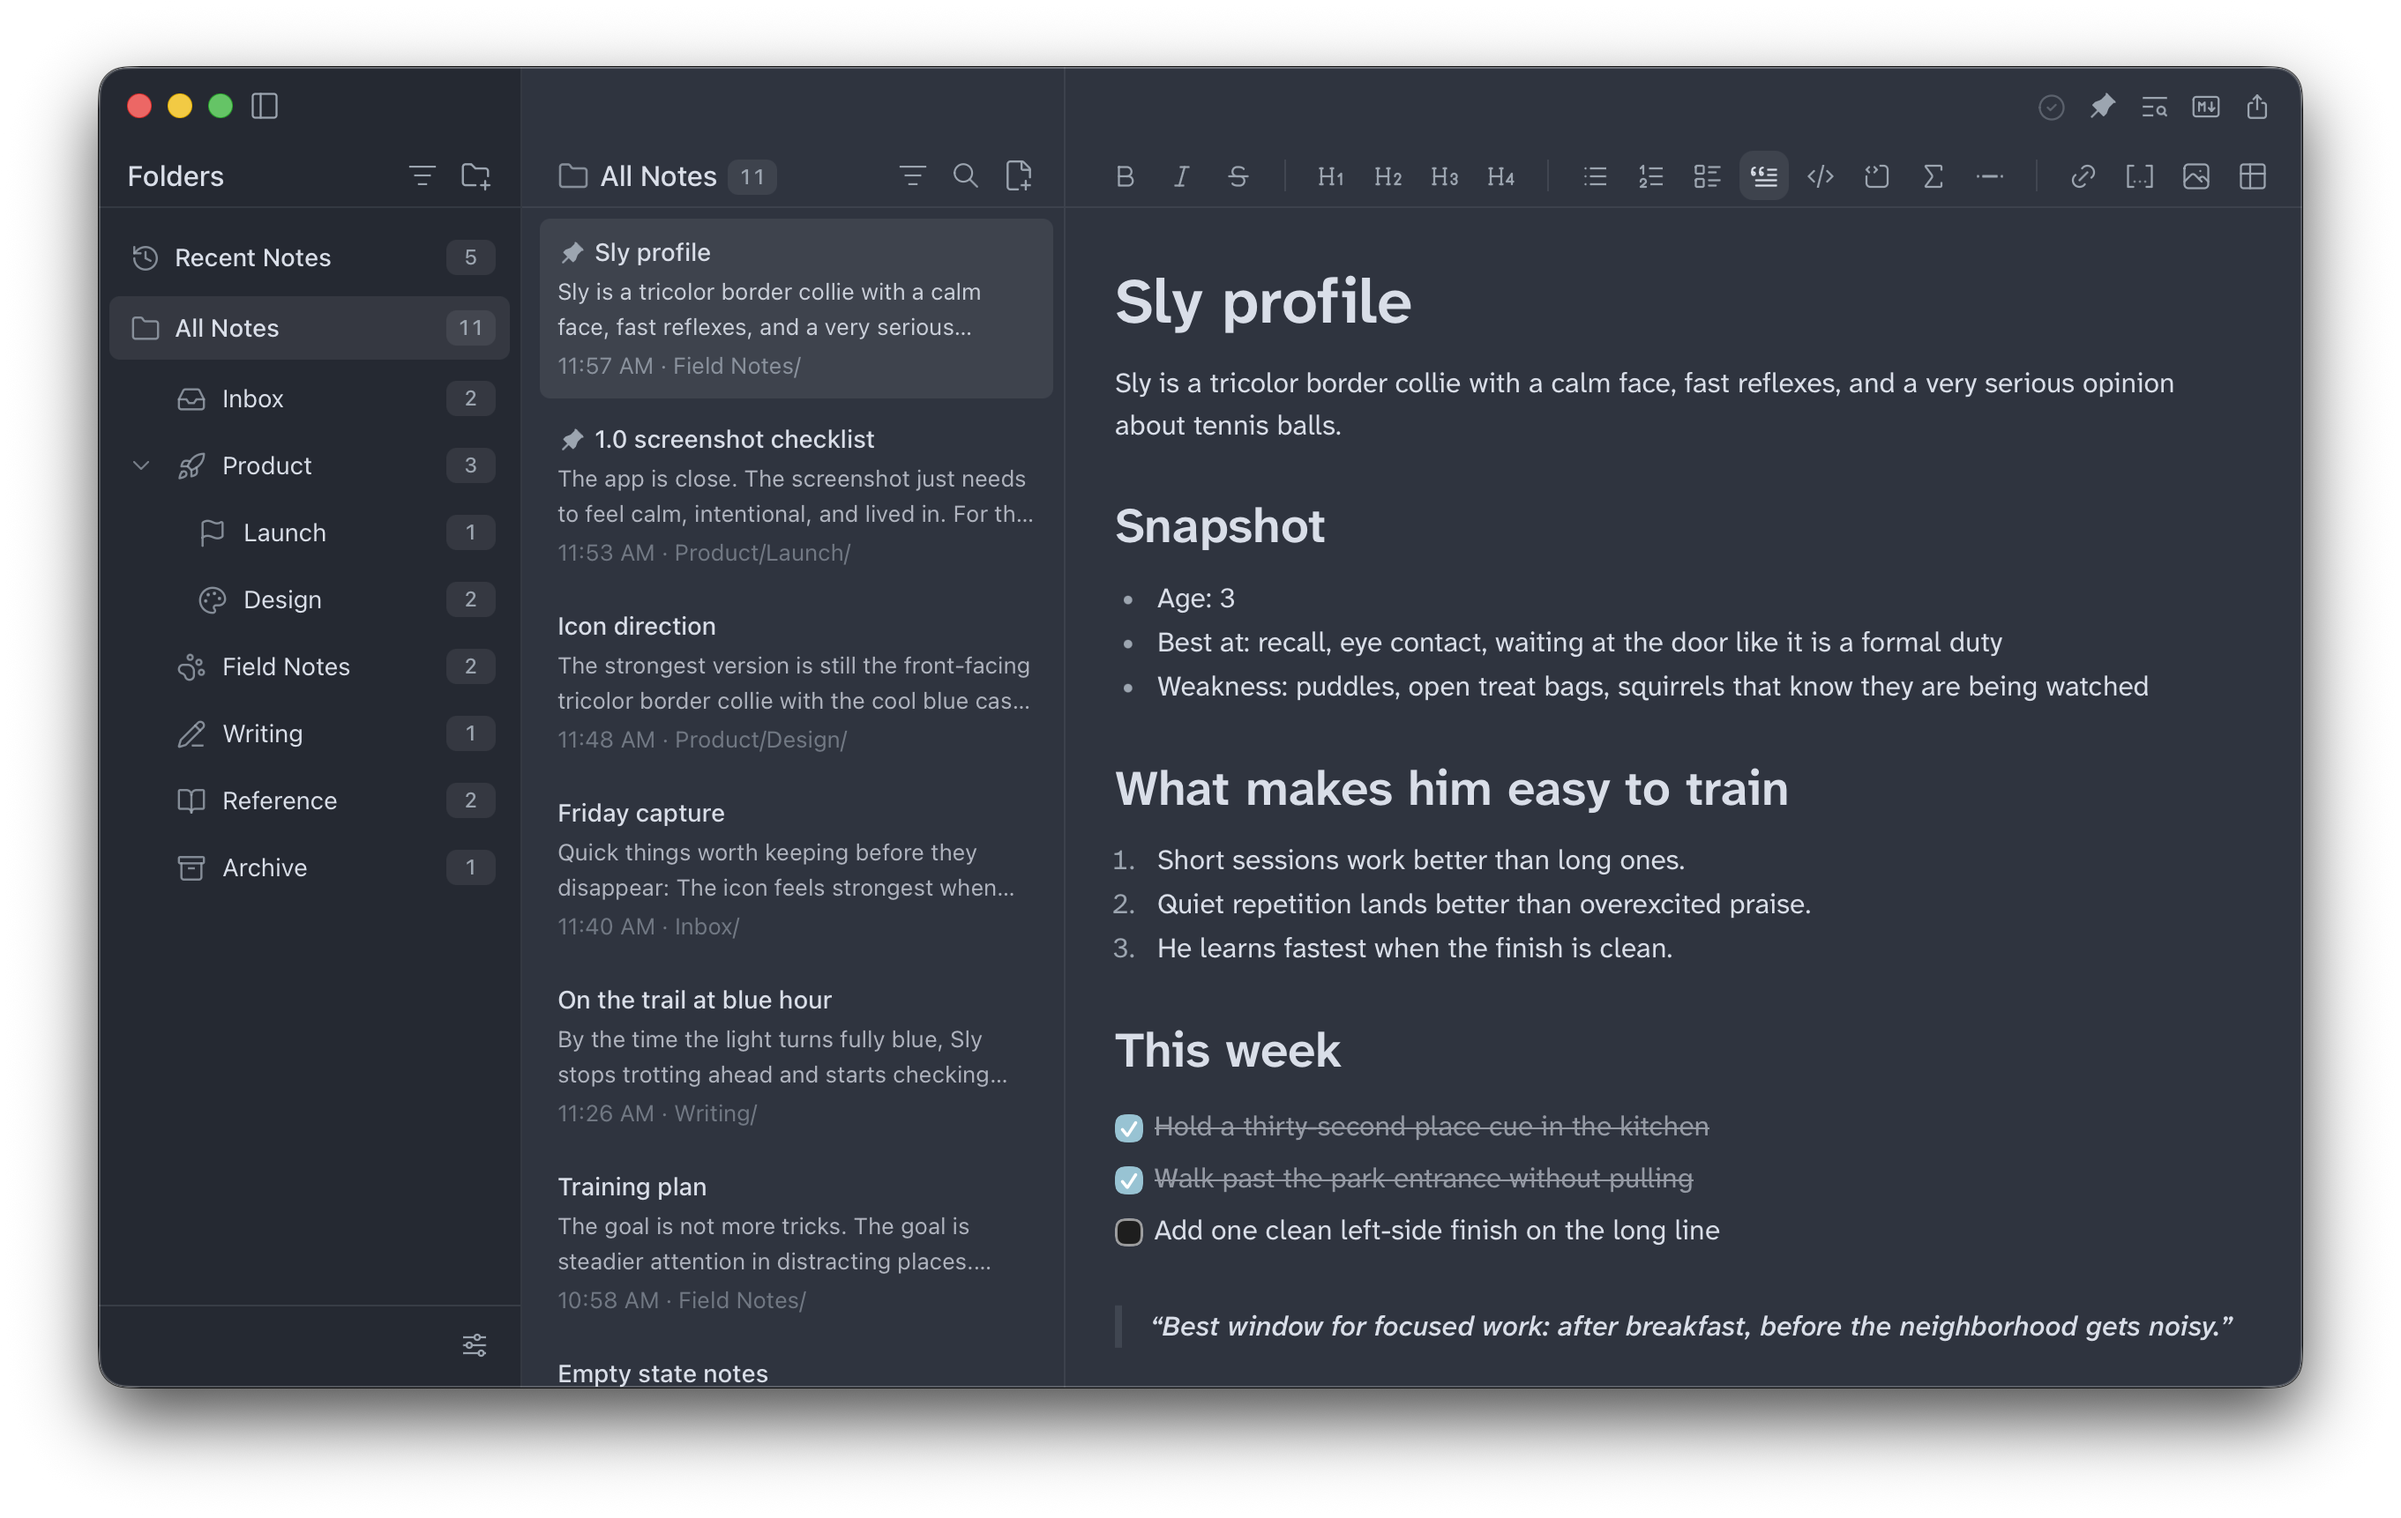
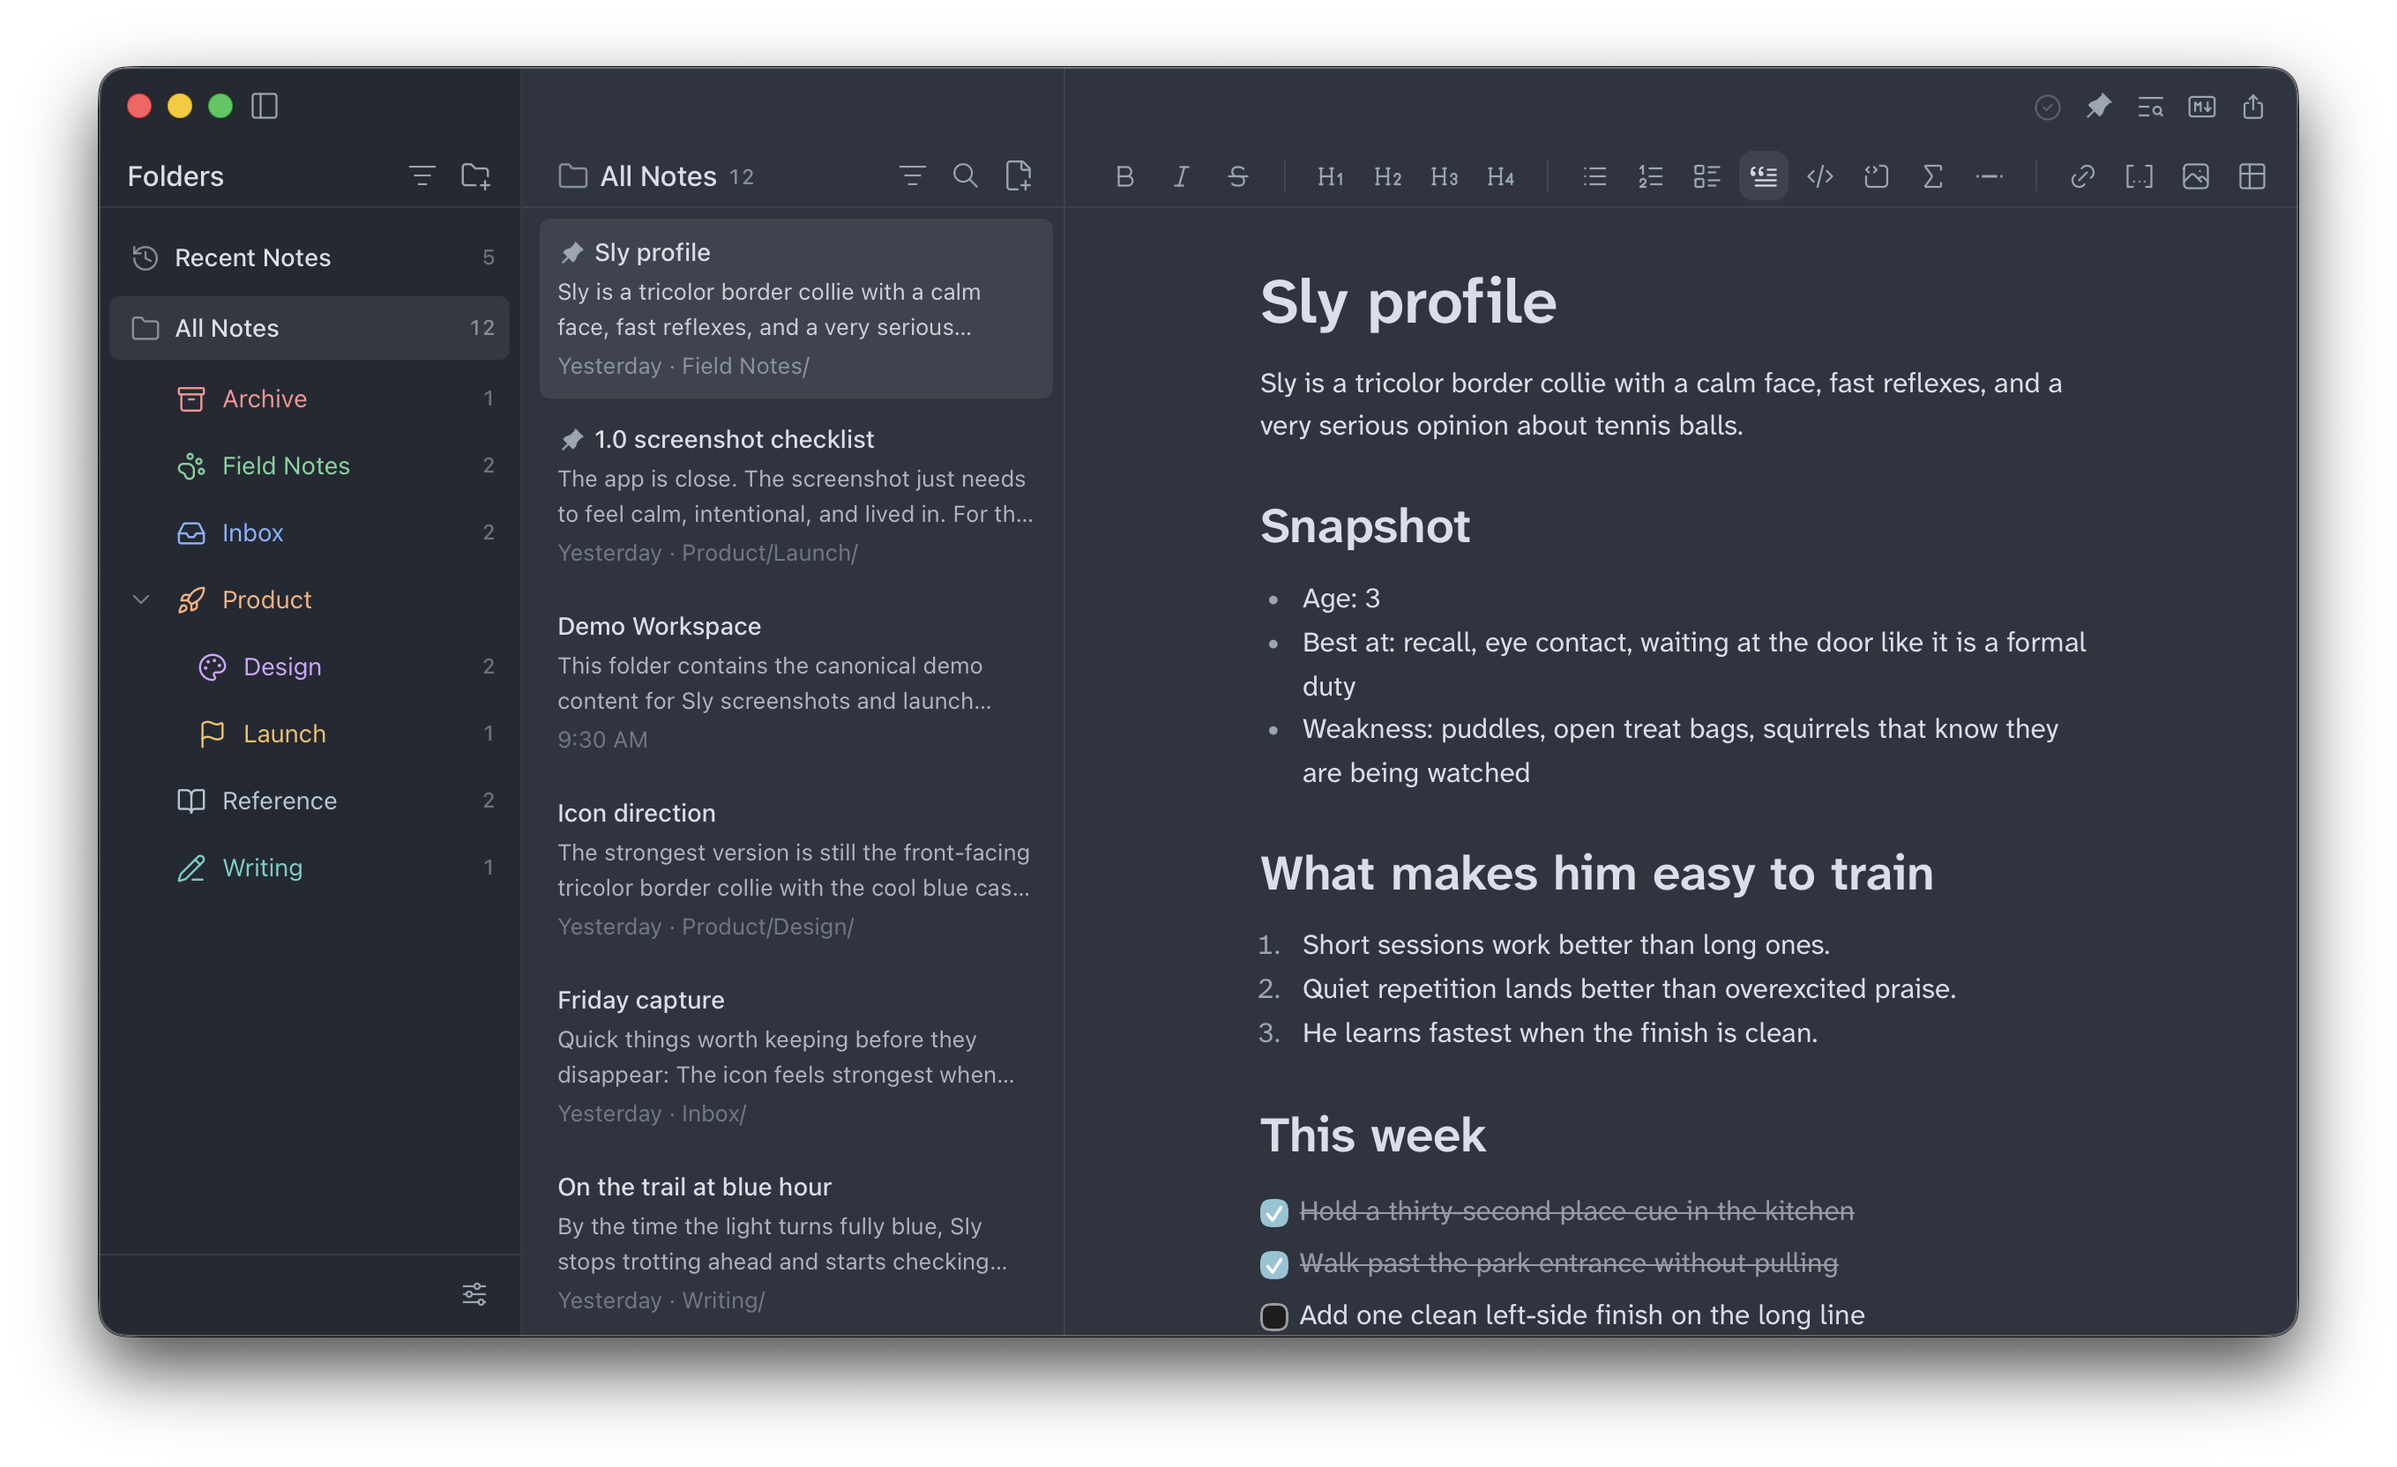
Remove legacy settings migrations and refresh demo workspace

diff --git a/src/components/notes/FolderTreeView.tsx b/src/components/notes/FolderTreeView.tsx
@@ -79,16 +79,6 @@ type FolderIconPickerTarget =
 
 const TREE_INDENT_WIDTH = 12;
 
-function loadLegacyCollapsedFolders(): Set<string> | null {
-  try {
-    const saved = localStorage.getItem("sly:collapsedFolders");
-    if (!saved) return null;
-    return new Set(JSON.parse(saved));
-  } catch {
-    return null;
-  }
-}
-
 function sanitizeFolderName(name: string): string {
   return name.replace(/[\/\\:*?"<>|]/g, "-").trim();
 }
@@ -674,11 +664,7 @@ export function FolderTreeView({
       return;
     }
 
-    const legacyCollapsedFolders = loadLegacyCollapsedFolders();
-    const initialCollapsedFolders = legacyCollapsedFolders
-      ? allFolderPaths.filter((path) => legacyCollapsedFolders.has(path))
-      : allFolderPaths;
-
+    const initialCollapsedFolders = allFolderPaths;
     setCollapsedFoldersState(new Set(initialCollapsedFolders));
     setHasInitializedCollapseState(true);
     void persistCollapsedFolders(initialCollapsedFolders);

diff --git a/src/lib/folderIcons.ts b/src/lib/folderIcons.ts
@@ -6,7 +6,6 @@ import type {
 
 export type FolderAppearanceInput =
   | FolderAppearance
-  | string
   | null
   | undefined;
 
@@ -114,18 +113,6 @@ function sanitizeFolderIconSpec(value: unknown): FolderIconSpec | null {
 export function sanitizeFolderAppearance(
   folderAppearance: FolderAppearanceInput,
 ): FolderAppearance | null {
-  if (typeof folderAppearance === "string") {
-    const iconName = folderAppearance.trim();
-    return iconName
-      ? {
-          icon: {
-            kind: "lucide",
-            name: iconName,
-          },
-        }
-      : null;
-  }
-
   if (!folderAppearance || typeof folderAppearance !== "object") {
     return null;
   }

diff --git a/src/lib/folderIcons.test.ts b/src/lib/folderIcons.test.ts
@@ -6,15 +6,19 @@ import {
 } from "./folderIcons";
 
 describe("folderIcons helpers", () => {
-  it("normalizes legacy lucide strings and emoji appearances", () => {
+  it("normalizes structured lucide and emoji appearances", () => {
     expect(
       sanitizeFolderAppearances({
-        docs: "folder-open-dot",
+        docs: {
+          icon: { kind: "lucide", name: "folder-open-dot" },
+        },
         journal: {
           icon: { kind: "emoji", shortcode: "book" },
           colorId: "blue",
         },
-        empty: "   ",
+        empty: {
+          icon: { kind: "lucide", name: "   " },
+        },
       }),
     ).toEqual({
       docs: {

diff --git a/src/components/notes/NoteList.tsx b/src/components/notes/NoteList.tsx
@@ -211,7 +211,6 @@ const NoteItemWithMenu = memo(function NoteItemWithMenu({
   onClearSelection,
   onFocusList,
   showFolderPrefix = true,
-  forceShowFolderPath = false,
   noteListDateMode,
   noteListPreviewLines,
   showNoteListFilename,

diff --git a/src-tauri/src/lib.rs b/src-tauri/src/lib.rs
@@ -346,13 +346,6 @@ pub struct FolderAppearance {
     pub color_id: Option<FolderColorId>,
 }
 
-#[derive(Debug, Clone, Deserialize)]
-#[serde(untagged)]
-enum FolderAppearanceSetting {
-    Legacy(String),
-    Appearance(FolderAppearance),
-}
-
 // App config (stored in app data directory)
 #[derive(Debug, Clone, Serialize, Deserialize, Default)]
 pub struct AppConfig {
@@ -378,11 +371,7 @@ pub struct Settings {
     pub default_note_name: Option<String>,
     #[serde(rename = "ollamaModel")]
     pub ollama_model: Option<String>,
-    #[serde(
-        rename = "folderIcons",
-        default,
-        deserialize_with = "deserialize_folder_icons"
-    )]
+    #[serde(rename = "folderIcons", default)]
     pub folder_icons: Option<HashMap<String, FolderAppearance>>,
     #[serde(rename = "collapsedFolders")]
     pub collapsed_folders: Option<Vec<String>>,
@@ -1304,20 +1293,6 @@ fn sanitize_folder_appearance(folder_appearance: FolderAppearance) -> Option<Fol
     Some(FolderAppearance { icon, color_id })
 }
 
-fn normalize_folder_appearance_setting(value: FolderAppearanceSetting) -> Option<FolderAppearance> {
-    match value {
-        FolderAppearanceSetting::Legacy(icon_name) => {
-            sanitize_folder_appearance(FolderAppearance {
-                icon: Some(FolderIconSpec::Lucide { name: icon_name }),
-                color_id: None,
-            })
-        }
-        FolderAppearanceSetting::Appearance(folder_appearance) => {
-            sanitize_folder_appearance(folder_appearance)
-        }
-    }
-}
-
 fn sanitize_folder_icons_map(
     folder_icons: HashMap<String, FolderAppearance>,
 ) -> HashMap<String, FolderAppearance> {
@@ -1333,32 +1308,6 @@ fn sanitize_folder_icons_map(
                 .map(|normalized_appearance| (normalized_path, normalized_appearance))
         })
         .collect()
-}
-
-fn deserialize_folder_icons<'de, D>(
-    deserializer: D,
-) -> Result<Option<HashMap<String, FolderAppearance>>, D::Error>
-where
-    D: Deserializer<'de>,
-{
-    let raw = Option::<HashMap<String, FolderAppearanceSetting>>::deserialize(deserializer)?;
-
-    Ok(raw.and_then(|folder_icons| {
-        let normalized: HashMap<String, FolderAppearance> = folder_icons
-            .into_iter()
-            .filter_map(|(path, value)| {
-                let normalized_path = path.trim().to_string();
-                if normalized_path.is_empty() {
-                    return None;
-                }
-
-                normalize_folder_appearance_setting(value)
-                    .map(|folder_appearance| (normalized_path, folder_appearance))
-            })
-            .collect();
-
-        (!normalized.is_empty()).then_some(normalized)
-    }))
 }
 
 fn sanitize_settings(settings: &mut Settings) {
@@ -1607,19 +1556,11 @@ fn cleanup_debounce_map(map: &Mutex<HashMap<PathBuf, Instant>>) {
     map.retain(|_, last| now.duration_since(*last) < Duration::from_secs(5));
 }
 
-// Normalize notes folder path from plain paths and legacy file:// URIs.
+// Normalize notes folder path input from the UI/config.
 fn normalize_notes_folder_path(path: &str) -> Result<PathBuf, String> {
     let trimmed = path.trim();
     if trimmed.is_empty() {
         return Err("Notes folder path is empty".to_string());
-    }
-
-    if trimmed.starts_with("file://") {
-        let parsed = url::Url::parse(trimmed)
-            .map_err(|e| format!("Invalid file URL for notes folder: {}", e))?;
-        return parsed
-            .to_file_path()
-            .map_err(|_| "Invalid file URL for notes folder".to_string());
     }
 
     Ok(PathBuf::from(trimmed))
@@ -4883,7 +4824,7 @@ pub fn run() {
             let mut app_config = load_app_config(app.handle());
             let mut app_config_dirty = false;
 
-            // Normalize legacy/invalid saved paths (e.g. file:// URI from older builds)
+            // Normalize saved paths from config and clear empty values.
             if let Some(saved_path) = app_config.notes_folder.clone() {
                 match normalize_notes_folder_path(&saved_path) {
                     Ok(normalized) if normalized.is_dir() => {
@@ -5381,36 +5322,12 @@ mod tests {
     }
 
     #[test]
-    fn deserialize_folder_icons_accepts_legacy_strings() {
-        let settings: Settings = serde_json::from_str(
-            r#"{
-                "folderIcons": {
-                    "docs": "folder-open-dot"
-                }
-            }"#,
-        )
-        .unwrap();
-
-        assert_eq!(
-            settings
-                .folder_icons
-                .as_ref()
-                .and_then(|folder_icons| folder_icons.get("docs")),
-            Some(&FolderAppearance {
-                icon: Some(FolderIconSpec::Lucide {
-                    name: "folder-open-dot".to_string(),
-                }),
-                color_id: None,
-            })
-        );
-    }
-
-    #[test]
     fn deserialize_demo_workspace_settings_file() {
         let content =
             std::fs::read_to_string("../docs/demo-workspace/.sly/settings.json").unwrap();
         let settings: Settings = serde_json::from_str(&content).unwrap();
 
+        assert!(settings.show_note_counts);
         assert_eq!(settings.folder_sort_mode, FolderSortMode::NameAsc);
         assert_eq!(settings.pinned_note_ids.as_ref().map(Vec::len), Some(2));
         assert_eq!(settings.recent_note_ids.as_ref().map(Vec::len), Some(5));

diff --git a/docs/demo-workspace/README.md b/docs/demo-workspace/README.md
@@ -6,7 +6,7 @@ It includes:
 
 - a realistic folder structure
 - sample notes with believable previews
-- `.sly/settings.json` so folder icons, folder colors, pinned notes, and recent notes match the intended demo state
+- `.sly/settings.json` so folder icons, folder colors, pinned notes, recent notes, collapse state, and note-list preferences match the intended demo state
 
 ## Recommended Notes For Screenshots
 
